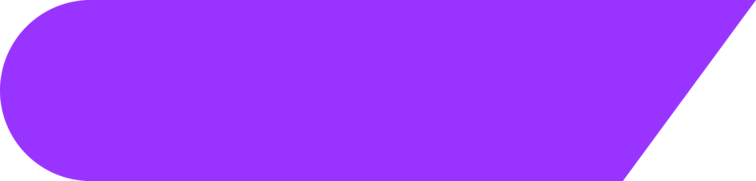
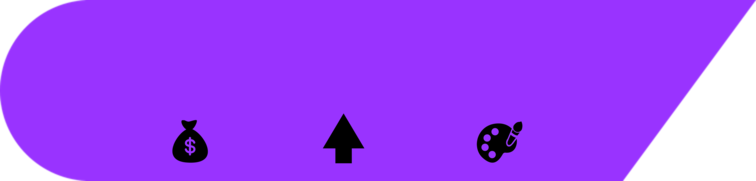
PRE-RELEASE CONFERENCE VERSION!!

Changed region(s): [[0.6085, 0.663, 0.6997, 0.9116], [0.4259, 0.6354, 0.4868, 0.9116], [0.213, 0.663, 0.2738, 0.9116]]

diff --git a/src/inventory.js b/src/inventory.js
@@ -12,7 +12,7 @@ function invCommand(fs, msg, ctx, sharp, canvas, client)
 
     let pg = 1
     console.log('Unresolved Num: ' + pingedUser)
-    if (Number(pingedUser) != NaN){ msg.reply('Число прошло')
+    if (Number(pingedUser) != NaN){ 
    }else {pingedUser = msg.member.id}
   if (args[2] != undefined) { pg = args[2] } else
   {
@@ -53,7 +53,7 @@ console.log('АЙДИ: ' + pingedUser)
      pingedUser = msg.member.id
 
    }
-       msg.reply(pingedUser + '|' + pg)
+      //  msg.reply(pingedUser + '|' + pg)
     client.users.fetch(pingedUser).then(User => 
   {
 
@@ -191,7 +191,7 @@ console.log('1]./Background/' + totalArray[1] + '/icon.png')
 console.log('2]./Background/' + totalArray[2] + '/icon.png')
 console.log('3]./Background/' + totalArray[3] + '/icon.png')
 sharp.cache(false);
-            sharp('./Images/shop.png')
+            sharp('./Images/inventory.png')
             .resize(1024, 1024)
             .composite([
               { input: './Background/' + totalArray[0] + '/icon.png', top: 130, left: 85},

diff --git a/src/card.js b/src/card.js
@@ -82,7 +82,7 @@ let fontsize = 70
 
   NeededXP = Math.floor(NeededXP)
 
-        msg.reply(currentXP.toString() + '/' + NeededXP.toString())
+        // msg.reply(currentXP.toString() + '/' + NeededXP.toString())
         ctx.fillText(NeededXP, 458, 400)
         ctx.strokeText(NeededXP, 458, 400)
 
@@ -148,14 +148,14 @@ let Themes = fs.readdirSync('./data/UserData/' + msg.author.id + '/themes', "utf
 ctx.font = fontsize + 'px "Main"'
 ctx.fillText(User.tag, 220, 124)
 console.log('Тег: ' + User.tag)
-ctx.fillText(Money, 570, 204)
+ctx.fillText(Money, 270, 208)
 console.log('ДЕНЬГИ ВНЕСЕНЫ ' + Money)
 console.log('Мани: ' + Money)
-ctx.fillText(Level, 420, 204)
+ctx.fillText(Level, 430, 208)
 console.log('Мани: ' + Level)
 console.log('VVV AMOUNT VVV')
 console.log(Themes)
-ctx.fillText(Themes.length , 270, 204)
+ctx.fillText(Themes.length , 580, 208)
 console.log('Мани: ' + Level)
 
 // let out = fs.createWriteStream(pingedUser + 'temp.png')

diff --git a/src/gift.js b/src/gift.js
@@ -38,6 +38,8 @@ console.log(pingedUser)
      Guild.members.cache.find(user => user.id === pingedUser).roles.add(role);
      msg.reply('<@' + pingedUser + '>')
      msg.channel.send('https://media.discordapp.net/attachments/698853696817070164/920043674275037244/SPACITEOnDerzitMenya.gif')
+        let CurrentDate = new Date(new Date().toLocaleString("en-US", {timeZone: "Europe/Moscow"})).toJSON(); 
+      fs.writeFileSync('./data/UserData/' + msg.member.id + '/themes/2022', CurrentDate)
      msg.channel.send('Подарок успешно подарен! <@' + pingedUser + '> получает лимитированную роль, а ты лимитированную тему "2022"! Проверь её при помощи `/inv`')
     fs.appendFileSync('./data/giftedArray', msg.member.id + ' | ')
  }else{

diff --git a/src/buy.js b/src/buy.js
@@ -35,7 +35,7 @@ let ShopThemes = fs.readdirSync('./Background')
             let owned = Number(fs.readFileSync('./Background/' + args[1].toLowerCase() + '/owned', "utf8"));
             fs.writeFileSync('./Background/' + args[1].toLowerCase() + '/owned',(owned + 1).toString(), 'utf8', (err) => { console.log(err) })
 
-            msg.reply(owned.toString())
+            // msg.reply(owned.toString())
 
             fs.writeFileSync('./data/UserData/' + msg.member.id + '/themes/' + args[1].toLowerCase(),CurrentDate, 'utf8', (err) => { console.log(err) })
             userBalance = userBalance - price
